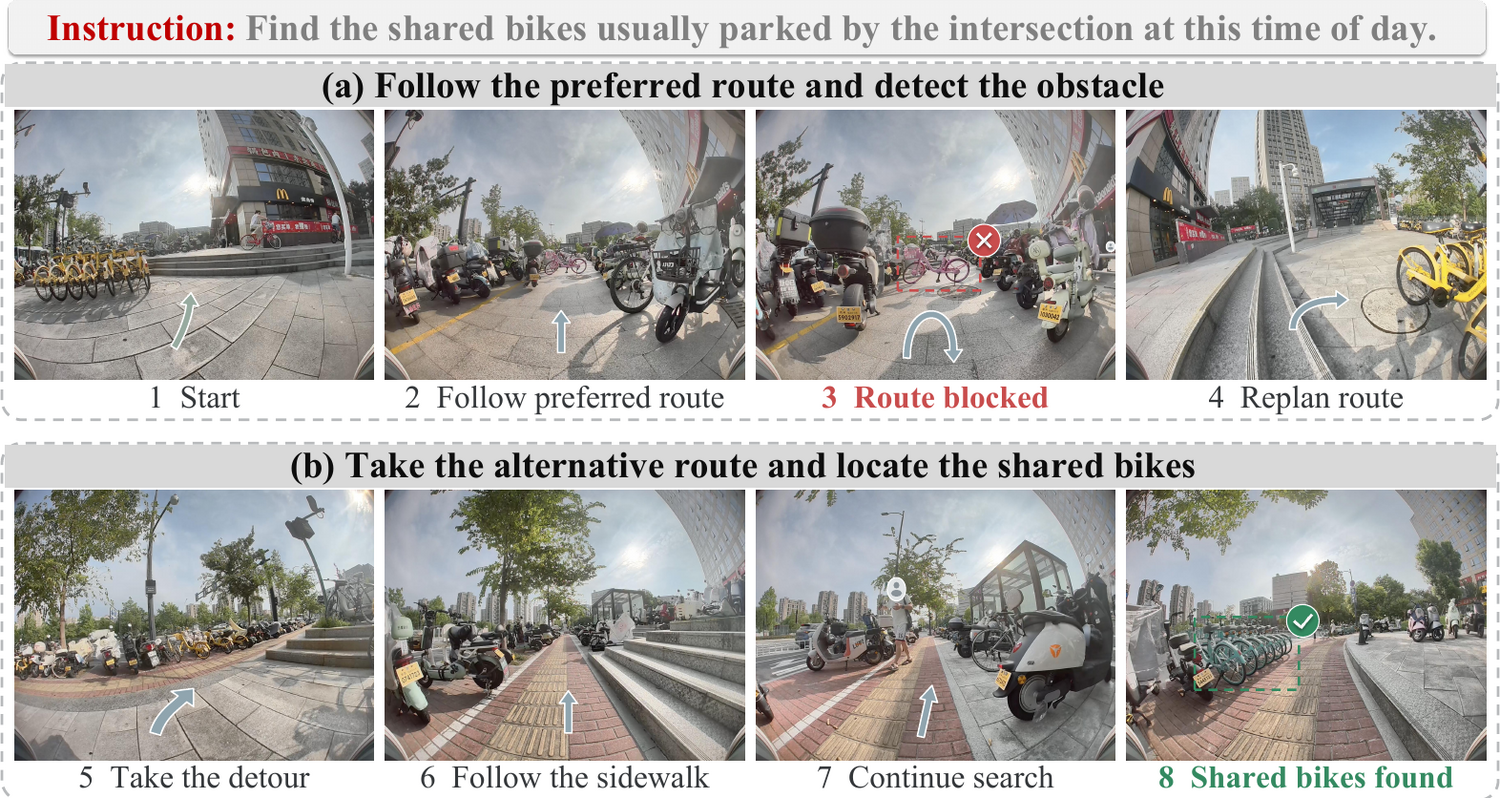
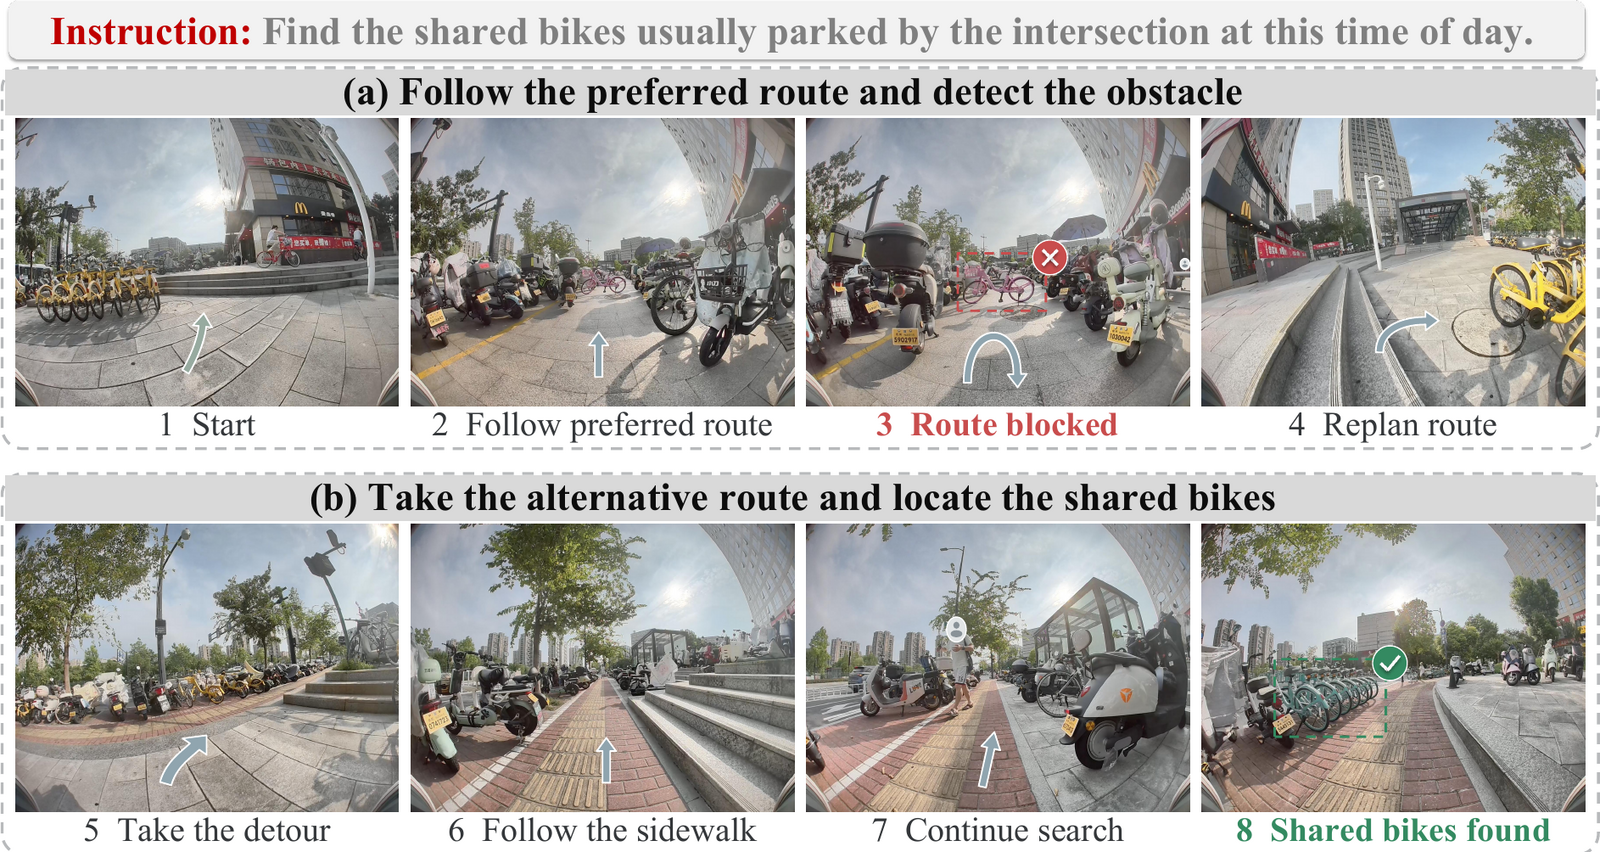
Fix real-world figure alignment and corrupted image

diff --git a/index.html b/index.html
@@ -6,6 +6,7 @@
   <meta name="description" content="EvolvingWorldNav: Predictive 4D Belief for Persistent Navigation in Evolving Worlds" />
   <title>EvolvingWorldNav | Project Page</title>
   <link rel="stylesheet" href="academic.css" />
+  <link rel="stylesheet" href="layout-fixes.css" />
 </head>
 <body>
   <header class="site-header">
@@ -58,7 +59,16 @@
       <table class="results-table"><thead><tr><th>Method</th><th>FindingDory<br />HL-SR ↑</th><th>GOAT-Bench<br />SR ↑</th><th>P4D-Bench<br />Search SR ↑</th><th>P4D-Bench<br />SPL ↑</th></tr></thead><tbody><tr><td>Best reported baseline</td><td>52.44</td><td>29.64</td><td>81.00</td><td>66.83</td></tr><tr class="ours"><td><b>EvolvingWorldNav (ours)</b></td><td><b>63.22 ± 3.87</b></td><td><b>35.43 ± 2.16</b></td><td><b>86.18 ± 2.07</b></td><td><b>70.15 ± 1.74</b></td></tr></tbody></table>
       <h3>Real-world evaluation</h3>
       <p>On 64 matched LYNX M20 search episodes, EvolvingWorldNav reaches 34.4% First-Go SR, 48.4% Search SR, and 24.3% Recovery SR, while reducing mean travel to 43.8 m.</p>
-      <div class="figure-grid real-world"><figure class="paper-figure"><img src="figures/real_indoor_web.png" alt="Indoor real-world execution case" /><figcaption>Indoor execution case.</figcaption></figure><figure class="paper-figure"><img src="figures/real_outdoor_web.png" alt="Outdoor real-world execution case" /><figcaption>Outdoor execution case.</figcaption></figure></div>
+      <div class="figure-grid real-world">
+        <figure class="paper-figure">
+          <div class="real-world-media"><img src="figures/real_indoor_web.png" alt="Indoor real-world execution case" /></div>
+          <figcaption>Indoor execution case.</figcaption>
+        </figure>
+        <figure class="paper-figure">
+          <div class="real-world-media"><img src="figures/real_outdoor_web.png" alt="Outdoor real-world execution case" /></div>
+          <figcaption>Outdoor execution case.</figcaption>
+        </figure>
+      </div>
     </section>
 
     <section class="paper-section resources"><h2>Resources</h2><div class="resource-links"><a href="main.pdf" target="_blank" rel="noreferrer">Paper PDF <span>↗</span></a><a href="https://github.com/fengnian123/DR-AgentOS" target="_blank" rel="noreferrer">GitHub repository <span>↗</span></a><a href="figures/P4D_Benchmark.pdf" target="_blank" rel="noreferrer">P4D-Bench figure <span>↗</span></a><a href="figures/predictive-memory.pdf" target="_blank" rel="noreferrer">Predictive diagnostics <span>↗</span></a></div></section>

diff --git a/layout-fixes.css b/layout-fixes.css
@@ -1,0 +1,43 @@
+/* Real-world figures have different native aspect ratios. This shared media
+   stage keeps the two panels and their captions aligned without cropping. */
+.real-world {
+  align-items: stretch;
+}
+
+.real-world .paper-figure {
+  display: grid;
+  grid-template-rows: 360px auto;
+  align-content: start;
+}
+
+.real-world-media {
+  display: flex;
+  align-items: center;
+  justify-content: center;
+  min-width: 0;
+  overflow: hidden;
+}
+
+.real-world-media img {
+  display: block;
+  width: 100%;
+  height: 100%;
+  object-fit: contain;
+}
+
+.real-world .paper-figure figcaption {
+  min-height: 32px;
+  margin-top: 10px;
+  padding-top: 9px;
+  border-top: 1px solid var(--line);
+}
+
+@media (max-width: 760px) {
+  .real-world .paper-figure {
+    grid-template-rows: auto auto;
+  }
+
+  .real-world-media img {
+    height: auto;
+  }
+}
